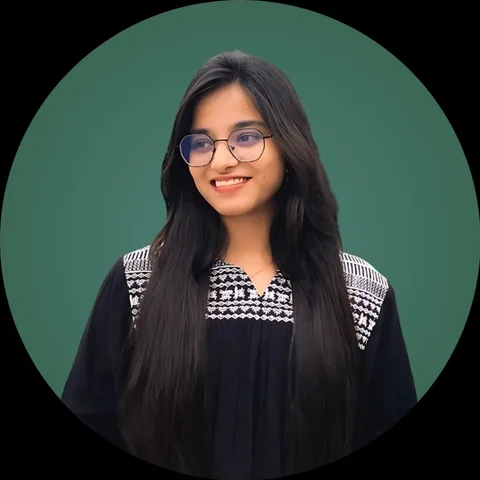
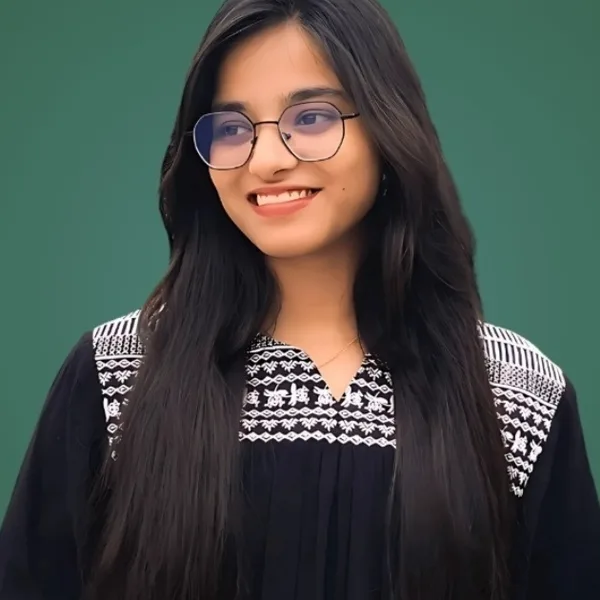
Homepage: team as gliding square-card carousel after the reels
Big card left, next card peeking; auto-advances every 3 s, swipe,
keys and dots. Photos re-cropped square to fill the cards.

Claude-Session: https://claude.ai/code/session_01AbE5ecc2Cn8vJ6Anzxiuye

diff --git a/forgehype-qa/index.html b/forgehype-qa/index.html
@@ -21,7 +21,7 @@
 <link rel="preconnect" href="https://fonts.googleapis.com">
 <link rel="preconnect" href="https://fonts.gstatic.com" crossorigin>
 <link href="https://fonts.googleapis.com/css2?family=Bricolage+Grotesque:opsz,wght@12..96,300;12..96,500;12..96,600;12..96,700&family=Manrope:wght@400;500;600&family=Geist+Mono:wght@400;500&display=swap" rel="stylesheet">
-<link rel="stylesheet" href="assets/css/main.css?v=20261025j">
+<link rel="stylesheet" href="assets/css/main.css?v=20261025k">
 <script>document.documentElement.classList.add("js")</script>
 <script type="application/ld+json">
 {"@context": "https://schema.org", "@type": "ProfessionalService", "@id": "https://forgehype.qa/#business", "name": "ForgeHype", "legalName": "ForgeHype website and Management consultancy W.L.L.", "url": "https://forgehype.qa/", "logo": "https://forgehype.qa/assets/img/brand/logo.png", "image": "https://forgehype.qa/assets/img/og.jpg", "description": "Website design and digital growth consultancy in Doha, Qatar: websites and e-commerce, website content and brand media, SEO and AI visibility audits, automation and AI consultancy, brand identity and monthly growth advisory.", "telephone": "+97455879325", "email": "info@forgehype.qa", "foundingDate": "2026-10-12", "address": {"@type": "PostalAddress", "streetAddress": "Building 66, Street 950, Zone 24", "addressLocality": "Doha", "addressCountry": "QA"}, "areaServed": {"@type": "Country", "name": "Qatar"}, "sameAs": ["https://www.instagram.com/forgehypeqatar/"], "knowsLanguage": ["en", "ar"]}
@@ -240,21 +240,6 @@
     </p>
     <p class="statement" id="statement">A website design and digital growth consultancy in Doha, helping brands get seen, trusted and remembered.</p>
     <div class="btn-row reveal"><a class="btn btn-primary" href="#talk">Let’s Talk</a></div>
-    <div class="team reveal" id="team">
-      <h2 class="t-display team-title">The team</h2>
-      <p class="lowkey">Our team brings 14 years of GCC media production experience.</p>
-      <ul class="team-grid" aria-label="ForgeHype team">
-        <li class="member"><span class="avatar"><img src="assets/img/team/farzana-husain.webp" alt="Farzana Husain, Managing Director, ForgeHype" width="128" height="128" loading="lazy" decoding="async"></span><span class="m-name">Farzana Husain</span><span class="m-role">Managing Director</span></li>
-        <li class="member"><span class="avatar"><img src="assets/img/team/adnan-mohammad.webp" alt="Adnan Mohammad, Creative Director, ForgeHype" width="128" height="128" loading="lazy" decoding="async"></span><span class="m-name">Adnan Mohammad</span><span class="m-role">Creative Director</span></li>
-        <li class="member"><span class="avatar"><img src="assets/img/team/nishat-tasnim.webp" alt="Nishat Tasnim, Operations Lead, ForgeHype" width="128" height="128" loading="lazy" decoding="async"></span><span class="m-name">Nishat Tasnim</span><span class="m-role">Operations Lead</span></li>
-        <li class="member"><span class="avatar"><img src="assets/img/team/tahrima-tony.webp" alt="Tahrima Tony, Lead Motion Designer, ForgeHype" width="128" height="128" loading="lazy" decoding="async"></span><span class="m-name">Tahrima Tony</span><span class="m-role">Lead Motion Designer</span></li>
-        <li class="member"><span class="avatar"><img src="assets/img/team/sharia-tasnim.webp" alt="Sharia Tasnim, Lead Editor, ForgeHype" width="128" height="128" loading="lazy" decoding="async"></span><span class="m-name">Sharia Tasnim</span><span class="m-role">Lead Editor</span></li>
-        <li class="member"><span class="avatar"><img src="assets/img/team/anjum-akter.webp" alt="Anjum Akter, Lead, Growth and Engagement, ForgeHype" width="128" height="128" loading="lazy" decoding="async"></span><span class="m-name">Anjum Akter</span><span class="m-role">Lead, Growth &amp; Engagement</span></li>
-        <li class="member"><span class="avatar"><img src="assets/img/team/rakib-ahmad.webp" alt="Rakib Ahmad, Lead Video Editor, ForgeHype" width="128" height="128" loading="lazy" decoding="async"></span><span class="m-name">Rakib Ahmad</span><span class="m-role">Lead Video Editor</span></li>
-        <li class="member"><span class="avatar" aria-hidden="true">N</span><span class="m-name">Naim</span><span class="m-role">Lead, SEO &amp; AI Search</span></li>
-        <li class="member"><span class="avatar"><img src="assets/img/team/arifur-rahman.webp" alt="Arifur Rahman, AI Agent and Automation Consultant, ForgeHype" width="128" height="128" loading="lazy" decoding="async"></span><span class="m-name">Arifur Rahman</span><span class="m-role">AI Agent &amp; Automation Consultant</span></li>
-      </ul>
-    </div>
   </div>
 </section>
 
@@ -268,6 +253,29 @@
       <div class="reel" data-pos="-1" role="group" aria-roledescription="slide" aria-label="4 of 4: Talking-head video edited with motion graphics"><video muted loop playsinline preload="none" poster="assets/video/reels/talking-head.jpg" src="assets/video/reels/talking-head.mp4"></video><button class="sound-toggle" type="button" aria-pressed="false" aria-label="Turn sound on" tabindex="-1"><svg viewBox="0 0 24 24" fill="none" stroke="currentColor" stroke-width="1.8" stroke-linecap="round" stroke-linejoin="round" aria-hidden="true"><path d="M4 9.5h3.5L12 5.5v13l-4.5-4H4z" fill="currentColor" stroke="none"/><path class="waves" d="M15.5 9a4 4 0 0 1 0 6M18 6.5a7.5 7.5 0 0 1 0 11"/><path class="slash" d="M3 3l18 18"/></svg></button></div>
     </div>
     <div class="reel-nav"><button type="button" class="reel-arrow" data-dir="-1" aria-label="Previous reel">←</button><div class="reel-dots"><button type="button" class="reel-dot on" aria-label="Show reel 1"></button><button type="button" class="reel-dot" aria-label="Show reel 2"></button><button type="button" class="reel-dot" aria-label="Show reel 3"></button><button type="button" class="reel-dot" aria-label="Show reel 4"></button></div><button type="button" class="reel-arrow" data-dir="1" aria-label="Next reel">→</button></div>
+  </div>
+</section>
+
+<!-- ============ 3c. TEAM (light) ============ -->
+<section class="section light team-sec" id="team" data-theme="light" aria-labelledby="team-title">
+  <div class="wrap">
+    <div class="team-head reveal">
+      <span class="mono-label sec-label">[ Team ]</span>
+      <h2 class="t-display team-title" id="team-title">The team</h2>
+      <p class="lowkey">Our team brings 14 years of GCC media production experience.</p>
+    </div>
+    <ul class="team-track" id="teamTrack" tabindex="0" aria-roledescription="carousel" aria-label="ForgeHype team. Swipe or use the arrow keys.">
+        <li class="tcard" data-pos="0"><figure><img src="assets/img/team/farzana-husain.webp?v=2" alt="Farzana Husain, Managing Director, ForgeHype" width="480" height="480" loading="lazy" decoding="async"><figcaption><span class="m-name">Farzana Husain</span><span class="m-role">Managing Director</span></figcaption></figure></li>
+        <li class="tcard" data-pos="1"><figure><img src="assets/img/team/adnan-mohammad.webp?v=2" alt="Adnan Mohammad, Creative Director, ForgeHype" width="480" height="480" loading="lazy" decoding="async"><figcaption><span class="m-name">Adnan Mohammad</span><span class="m-role">Creative Director</span></figcaption></figure></li>
+        <li class="tcard" data-pos="2"><figure><img src="assets/img/team/nishat-tasnim.webp?v=2" alt="Nishat Tasnim, Operations Lead, ForgeHype" width="480" height="480" loading="lazy" decoding="async"><figcaption><span class="m-name">Nishat Tasnim</span><span class="m-role">Operations Lead</span></figcaption></figure></li>
+        <li class="tcard" data-pos="2"><figure><img src="assets/img/team/tahrima-tony.webp?v=2" alt="Tahrima Tony, Lead Motion Designer, ForgeHype" width="480" height="480" loading="lazy" decoding="async"><figcaption><span class="m-name">Tahrima Tony</span><span class="m-role">Lead Motion Designer</span></figcaption></figure></li>
+        <li class="tcard" data-pos="2"><figure><img src="assets/img/team/sharia-tasnim.webp?v=2" alt="Sharia Tasnim, Lead Editor, ForgeHype" width="480" height="480" loading="lazy" decoding="async"><figcaption><span class="m-name">Sharia Tasnim</span><span class="m-role">Lead Editor</span></figcaption></figure></li>
+        <li class="tcard" data-pos="2"><figure><img src="assets/img/team/anjum-akter.webp?v=2" alt="Anjum Akter, Lead, Growth and Engagement, ForgeHype" width="480" height="480" loading="lazy" decoding="async"><figcaption><span class="m-name">Anjum Akter</span><span class="m-role">Lead, Growth &amp; Engagement</span></figcaption></figure></li>
+        <li class="tcard" data-pos="2"><figure><img src="assets/img/team/rakib-ahmad.webp?v=2" alt="Rakib Ahmad, Lead Video Editor, ForgeHype" width="480" height="480" loading="lazy" decoding="async"><figcaption><span class="m-name">Rakib Ahmad</span><span class="m-role">Lead Video Editor</span></figcaption></figure></li>
+        <li class="tcard" data-pos="2"><figure><span class="tc-initial" aria-hidden="true">N</span><figcaption><span class="m-name">Naim</span><span class="m-role">Lead, SEO &amp; AI Search</span></figcaption></figure></li>
+        <li class="tcard" data-pos="-1"><figure><img src="assets/img/team/arifur-rahman.webp?v=2" alt="Arifur Rahman, AI Agent and Automation Consultant, ForgeHype" width="480" height="480" loading="lazy" decoding="async"><figcaption><span class="m-name">Arifur Rahman</span><span class="m-role">AI Agent &amp; Automation Consultant</span></figcaption></figure></li>
+    </ul>
+    <div class="team-dots"><button type="button" class="team-dot on" aria-label="Show Farzana Husain"></button><button type="button" class="team-dot" aria-label="Show Adnan Mohammad"></button><button type="button" class="team-dot" aria-label="Show Nishat Tasnim"></button><button type="button" class="team-dot" aria-label="Show Tahrima Tony"></button><button type="button" class="team-dot" aria-label="Show Sharia Tasnim"></button><button type="button" class="team-dot" aria-label="Show Anjum Akter"></button><button type="button" class="team-dot" aria-label="Show Rakib Ahmad"></button><button type="button" class="team-dot" aria-label="Show Naim"></button><button type="button" class="team-dot" aria-label="Show Arifur Rahman"></button></div>
   </div>
 </section>
 
@@ -551,6 +559,6 @@
 
 <a class="wa-float" id="waFloat" href="https://wa.me/97455879325" target="_blank" rel="noopener" aria-label="WhatsApp us"><svg viewBox="0 0 24 24" fill="none" stroke="currentColor" stroke-width="1.8" stroke-linecap="round" stroke-linejoin="round" aria-hidden="true"><path d="M21 12a9 9 0 0 1-13.3 7.9L3 21l1.1-4.6A9 9 0 1 1 21 12z"/></svg><span class="lbl">WhatsApp us</span></a>
 
-<script src="assets/js/main.js?v=20261025c" defer></script>
+<script src="assets/js/main.js?v=20261025d" defer></script>
 </body>
 </html>

diff --git a/forgehype-qa/faq.html b/forgehype-qa/faq.html
@@ -21,7 +21,7 @@
 <link rel="preconnect" href="https://fonts.googleapis.com">
 <link rel="preconnect" href="https://fonts.gstatic.com" crossorigin>
 <link href="https://fonts.googleapis.com/css2?family=Bricolage+Grotesque:opsz,wght@12..96,300;12..96,500;12..96,600;12..96,700&family=Manrope:wght@400;500;600&family=Geist+Mono:wght@400;500&display=swap" rel="stylesheet">
-<link rel="stylesheet" href="assets/css/main.css?v=20261025j">
+<link rel="stylesheet" href="assets/css/main.css?v=20261025k">
 <script>document.documentElement.classList.add("js")</script>
 <script type="application/ld+json">
 {"@context": "https://schema.org", "@graph": [{"@type": "FAQPage", "mainEntity": [{"@type": "Question", "name": "What does ForgeHype do?", "acceptedAnswer": {"@type": "Answer", "text": "Website design and digital growth consultancy: websites and e-commerce, website content and brand media, SEO and AI visibility audits, automation and AI consultancy, brand identity and monthly advisory. We advise and report; your team runs the day-to-day work."}}, {"@type": "Question", "name": "How much does it cost?", "acceptedAnswer": {"@type": "Answer", "text": "Every scope is built around your business, so we quote after the free consultation. No standard packages."}}, {"@type": "Question", "name": "How fast can you deliver content?", "acceptedAnswer": {"@type": "Answer", "text": "Days from brief to delivery, not weeks. From 10 to 60 videos a month."}}, {"@type": "Question", "name": "What does the free consultation cover?", "acceptedAnswer": {"@type": "Answer", "text": "Your website, search presence, content and brand. You get a clear list of what to fix first."}}, {"@type": "Question", "name": "Do you work outside Qatar?", "acceptedAnswer": {"@type": "Answer", "text": "Yes. We are based in Doha and work with clients outside Qatar on Teams and WhatsApp."}}, {"@type": "Question", "name": "Can you automate bookings and replies?", "acceptedAnswer": {"@type": "Answer", "text": "Yes. We plan AI agents for WhatsApp and your website that answer, book, take orders and follow up, connect them to your site, and train your team to run them."}}, {"@type": "Question", "name": "Do you work in Arabic?", "acceptedAnswer": {"@type": "Answer", "text": "Yes. Bilingual sites, menus and content, built right to left where it matters."}}, {"@type": "Question", "name": "What is monthly digital growth advisory?", "acceptedAnswer": {"@type": "Answer", "text": "Each month we review your numbers, research what is working in your market, report clear next steps and train your team."}}]}, {"@type": "BreadcrumbList", "itemListElement": [{"@type": "ListItem", "position": 1, "name": "Home", "item": "https://forgehype.qa/"}, {"@type": "ListItem", "position": 2, "name": "FAQ", "item": "https://forgehype.qa/faq.html"}]}]}

diff --git a/forgehype-qa/assets/css/main.css b/forgehype-qa/assets/css/main.css
@@ -683,3 +683,29 @@ html.js .stack-text .answer:not(.open){display:-webkit-box;-webkit-line-clamp:1;
   .reel-arrow{display:grid;place-items:center}
 }
 @media (prefers-reduced-motion:reduce){.reel{transition:none}}
+
+/* team: gliding square cards, big card left, next one peeking */
+.team-sec{padding-block:var(--s-6) var(--s-8);overflow-x:clip}
+.team-head{display:grid;gap:var(--s-3);justify-items:start}
+.team-track{--cw:78%;--gap:14px;--s2:.8;position:relative;list-style:none;margin:var(--s-6) 0 0;padding:0;aspect-ratio:100/78;touch-action:pan-y;outline:none;user-select:none;-webkit-user-select:none}
+.team-track:focus-visible{outline:2px solid var(--accent);outline-offset:8px;border-radius:28px}
+.tcard{--x:0%;--s:1;position:absolute;left:0;bottom:0;width:var(--cw);aspect-ratio:1;transform-origin:left bottom;transform:translateX(var(--x)) scale(var(--s));opacity:0;transition:transform .95s cubic-bezier(.22,.61,.36,1),opacity .95s cubic-bezier(.22,.61,.36,1)}
+.tcard figure{margin:0;position:relative;width:100%;height:100%;border-radius:24px;overflow:hidden;background:linear-gradient(150deg,#2a211b,#14110f);box-shadow:0 26px 50px -24px rgba(50,25,8,.45)}
+.tcard img{width:100%;height:100%;object-fit:cover;display:block}
+.tcard .tc-initial{position:absolute;inset:0;display:grid;place-items:center;font-family:var(--font-display);font-weight:600;font-size:clamp(4rem,20vw,8rem);color:var(--accent)}
+.tcard figcaption{position:absolute;inset-inline:0;bottom:0;padding:var(--s-6) var(--s-4) var(--s-4);display:grid;gap:.15rem;background:linear-gradient(to top,rgba(10,8,7,.85),rgba(10,8,7,0));color:#fff}
+.tcard .m-name{font-family:var(--font-display);font-weight:600;font-size:1.25rem;line-height:1.15}
+.tcard .m-role{font-size:var(--fs-sm);color:rgba(255,255,255,.78);line-height:1.3}
+.tcard[data-pos="0"]{opacity:1;z-index:2}
+.tcard[data-pos="1"]{--x:calc(100% + var(--gap));--s:var(--s2);opacity:1;z-index:1}
+.tcard[data-pos="1"] figcaption{opacity:.0}
+.tcard[data-pos="2"]{--x:calc(100% + 100% * var(--s2) + var(--gap) * 2);--s:var(--s2)}
+.tcard[data-pos="-1"]{--x:calc(-100% - var(--gap))}
+.team-dots{display:flex;flex-wrap:wrap;gap:.45rem;margin-block-start:var(--s-5)}
+.team-dot{width:7px;height:7px;border-radius:50%;border:0;padding:0;background:rgba(20,17,15,.2);cursor:pointer;transition:width .4s,background .4s}
+.team-dot.on{width:22px;border-radius:7px;background:var(--accent)}
+@media (min-width:900px){
+  .team-track{--cw:min(40%,440px);aspect-ratio:auto;height:min(40vw,440px)}
+  .tcard[data-pos="1"] figcaption{opacity:1}
+}
+@media (prefers-reduced-motion:reduce){.tcard{transition:none}}

diff --git a/forgehype-qa/services/website-ecommerce.html b/forgehype-qa/services/website-ecommerce.html
@@ -21,7 +21,7 @@
 <link rel="preconnect" href="https://fonts.googleapis.com">
 <link rel="preconnect" href="https://fonts.gstatic.com" crossorigin>
 <link href="https://fonts.googleapis.com/css2?family=Bricolage+Grotesque:opsz,wght@12..96,300;12..96,500;12..96,600;12..96,700&family=Manrope:wght@400;500;600&family=Geist+Mono:wght@400;500&display=swap" rel="stylesheet">
-<link rel="stylesheet" href="../assets/css/main.css?v=20261025j">
+<link rel="stylesheet" href="../assets/css/main.css?v=20261025k">
 <script>document.documentElement.classList.add("js")</script>
 <script type="application/ld+json">
 {"@context": "https://schema.org", "@graph": [{"@type": "Service", "@id": "https://forgehype.qa/services/website-ecommerce.html#service", "name": "Website design and e-commerce", "serviceType": "Website design and e-commerce", "description": "Custom websites and online stores for Qatar businesses, fast on mobile and built to turn visits into enquiries and orders. ForgeHype, Doha.", "url": "https://forgehype.qa/services/website-ecommerce.html", "areaServed": {"@type": "Country", "name": "Qatar"}, "provider": {"@id": "https://forgehype.qa/#business"}}, {"@type": "BreadcrumbList", "itemListElement": [{"@type": "ListItem", "position": 1, "name": "Home", "item": "https://forgehype.qa/"}, {"@type": "ListItem", "position": 2, "name": "Services", "item": "https://forgehype.qa/#services"}, {"@type": "ListItem", "position": 3, "name": "Website design and e-commerce", "item": "https://forgehype.qa/services/website-ecommerce.html"}]}, {"@type": "FAQPage", "mainEntity": [{"@type": "Question", "name": "What does the free consultation cover?", "acceptedAnswer": {"@type": "Answer", "text": "Your website, search presence, content and brand. You get a clear list of what to fix first."}}, {"@type": "Question", "name": "How much does it cost?", "acceptedAnswer": {"@type": "Answer", "text": "Every scope is built around your business, so we quote after the free consultation. No standard packages."}}, {"@type": "Question", "name": "What is monthly support?", "acceptedAnswer": {"@type": "Answer", "text": "Monthly digital growth advisory: we review your numbers, research what is working, report clear next steps and train your team."}}, {"@type": "Question", "name": "What does ForgeHype do?", "acceptedAnswer": {"@type": "Answer", "text": "Website design and digital growth consultancy: websites and e-commerce, website content and brand media, SEO and AI visibility audits, automation and AI consultancy, brand identity and monthly advisory. We advise and report; your team runs the day-to-day work."}}]}]}

diff --git a/forgehype-qa/services/brand-media-kit.html b/forgehype-qa/services/brand-media-kit.html
@@ -21,7 +21,7 @@
 <link rel="preconnect" href="https://fonts.googleapis.com">
 <link rel="preconnect" href="https://fonts.gstatic.com" crossorigin>
 <link href="https://fonts.googleapis.com/css2?family=Bricolage+Grotesque:opsz,wght@12..96,300;12..96,500;12..96,600;12..96,700&family=Manrope:wght@400;500;600&family=Geist+Mono:wght@400;500&display=swap" rel="stylesheet">
-<link rel="stylesheet" href="../assets/css/main.css?v=20261025j">
+<link rel="stylesheet" href="../assets/css/main.css?v=20261025k">
 <script>document.documentElement.classList.add("js")</script>
 <script type="application/ld+json">
 {"@context": "https://schema.org", "@graph": [{"@type": "Service", "@id": "https://forgehype.qa/services/brand-media-kit.html#service", "name": "Brand identity and media kits", "serviceType": "Brand identity and media kits", "description": "One consistent identity across everything customers see and hold: logo, colours, menus, catalogs, packaging and a brand guide. ForgeHype, Doha.", "url": "https://forgehype.qa/services/brand-media-kit.html", "areaServed": {"@type": "Country", "name": "Qatar"}, "provider": {"@id": "https://forgehype.qa/#business"}}, {"@type": "BreadcrumbList", "itemListElement": [{"@type": "ListItem", "position": 1, "name": "Home", "item": "https://forgehype.qa/"}, {"@type": "ListItem", "position": 2, "name": "Services", "item": "https://forgehype.qa/#services"}, {"@type": "ListItem", "position": 3, "name": "Brand identity and media kits", "item": "https://forgehype.qa/services/brand-media-kit.html"}]}, {"@type": "FAQPage", "mainEntity": [{"@type": "Question", "name": "What does the free consultation cover?", "acceptedAnswer": {"@type": "Answer", "text": "Your website, search presence, content and brand. You get a clear list of what to fix first."}}, {"@type": "Question", "name": "How much does it cost?", "acceptedAnswer": {"@type": "Answer", "text": "Every scope is built around your business, so we quote after the free consultation. No standard packages."}}, {"@type": "Question", "name": "What is monthly support?", "acceptedAnswer": {"@type": "Answer", "text": "Monthly digital growth advisory: we review your numbers, research what is working, report clear next steps and train your team."}}, {"@type": "Question", "name": "What does ForgeHype do?", "acceptedAnswer": {"@type": "Answer", "text": "Website design and digital growth consultancy: websites and e-commerce, website content and brand media, SEO and AI visibility audits, automation and AI consultancy, brand identity and monthly advisory. We advise and report; your team runs the day-to-day work."}}]}]}

diff --git a/forgehype-qa/services/search-ai-visibility.html b/forgehype-qa/services/search-ai-visibility.html
@@ -21,7 +21,7 @@
 <link rel="preconnect" href="https://fonts.googleapis.com">
 <link rel="preconnect" href="https://fonts.gstatic.com" crossorigin>
 <link href="https://fonts.googleapis.com/css2?family=Bricolage+Grotesque:opsz,wght@12..96,300;12..96,500;12..96,600;12..96,700&family=Manrope:wght@400;500;600&family=Geist+Mono:wght@400;500&display=swap" rel="stylesheet">
-<link rel="stylesheet" href="../assets/css/main.css?v=20261025j">
+<link rel="stylesheet" href="../assets/css/main.css?v=20261025k">
 <script>document.documentElement.classList.add("js")</script>
 <script type="application/ld+json">
 {"@context": "https://schema.org", "@graph": [{"@type": "Service", "@id": "https://forgehype.qa/services/search-ai-visibility.html#service", "name": "SEO and AI visibility audits", "serviceType": "SEO and AI visibility audits", "description": "Audits of your website, Google profile and listings, with a clear report your team can act on to get found on Google and AI.", "url": "https://forgehype.qa/services/search-ai-visibility.html", "areaServed": {"@type": "Country", "name": "Qatar"}, "provider": {"@id": "https://forgehype.qa/#business"}}, {"@type": "BreadcrumbList", "itemListElement": [{"@type": "ListItem", "position": 1, "name": "Home", "item": "https://forgehype.qa/"}, {"@type": "ListItem", "position": 2, "name": "Services", "item": "https://forgehype.qa/#services"}, {"@type": "ListItem", "position": 3, "name": "SEO and AI visibility audits", "item": "https://forgehype.qa/services/search-ai-visibility.html"}]}, {"@type": "FAQPage", "mainEntity": [{"@type": "Question", "name": "What does the free consultation cover?", "acceptedAnswer": {"@type": "Answer", "text": "Your website, search presence, content and brand. You get a clear list of what to fix first."}}, {"@type": "Question", "name": "How much does it cost?", "acceptedAnswer": {"@type": "Answer", "text": "Every scope is built around your business, so we quote after the free consultation. No standard packages."}}, {"@type": "Question", "name": "What is monthly support?", "acceptedAnswer": {"@type": "Answer", "text": "Monthly digital growth advisory: we review your numbers, research what is working, report clear next steps and train your team."}}, {"@type": "Question", "name": "What does ForgeHype do?", "acceptedAnswer": {"@type": "Answer", "text": "Website design and digital growth consultancy: websites and e-commerce, website content and brand media, SEO and AI visibility audits, automation and AI consultancy, brand identity and monthly advisory. We advise and report; your team runs the day-to-day work."}}]}]}

diff --git a/forgehype-qa/services/monthly-support.html b/forgehype-qa/services/monthly-support.html
@@ -21,7 +21,7 @@
 <link rel="preconnect" href="https://fonts.googleapis.com">
 <link rel="preconnect" href="https://fonts.gstatic.com" crossorigin>
 <link href="https://fonts.googleapis.com/css2?family=Bricolage+Grotesque:opsz,wght@12..96,300;12..96,500;12..96,600;12..96,700&family=Manrope:wght@400;500;600&family=Geist+Mono:wght@400;500&display=swap" rel="stylesheet">
-<link rel="stylesheet" href="../assets/css/main.css?v=20261025j">
+<link rel="stylesheet" href="../assets/css/main.css?v=20261025k">
 <script>document.documentElement.classList.add("js")</script>
 <script type="application/ld+json">
 {"@context": "https://schema.org", "@graph": [{"@type": "Service", "@id": "https://forgehype.qa/services/monthly-support.html#service", "name": "Monthly digital growth advisory", "serviceType": "Monthly digital growth advisory", "description": "Each month we review your numbers, research what works in your market and report clear next steps, with training for your team.", "url": "https://forgehype.qa/services/monthly-support.html", "areaServed": {"@type": "Country", "name": "Qatar"}, "provider": {"@id": "https://forgehype.qa/#business"}}, {"@type": "BreadcrumbList", "itemListElement": [{"@type": "ListItem", "position": 1, "name": "Home", "item": "https://forgehype.qa/"}, {"@type": "ListItem", "position": 2, "name": "Services", "item": "https://forgehype.qa/#services"}, {"@type": "ListItem", "position": 3, "name": "Monthly digital growth advisory", "item": "https://forgehype.qa/services/monthly-support.html"}]}, {"@type": "FAQPage", "mainEntity": [{"@type": "Question", "name": "What does the free consultation cover?", "acceptedAnswer": {"@type": "Answer", "text": "Your website, search presence, content and brand. You get a clear list of what to fix first."}}, {"@type": "Question", "name": "How much does it cost?", "acceptedAnswer": {"@type": "Answer", "text": "Every scope is built around your business, so we quote after the free consultation. No standard packages."}}, {"@type": "Question", "name": "What is monthly support?", "acceptedAnswer": {"@type": "Answer", "text": "Monthly digital growth advisory: we review your numbers, research what is working, report clear next steps and train your team."}}, {"@type": "Question", "name": "What does ForgeHype do?", "acceptedAnswer": {"@type": "Answer", "text": "Website design and digital growth consultancy: websites and e-commerce, website content and brand media, SEO and AI visibility audits, automation and AI consultancy, brand identity and monthly advisory. We advise and report; your team runs the day-to-day work."}}]}]}

diff --git a/forgehype-qa/services/ai-automation-apps.html b/forgehype-qa/services/ai-automation-apps.html
@@ -21,7 +21,7 @@
 <link rel="preconnect" href="https://fonts.googleapis.com">
 <link rel="preconnect" href="https://fonts.gstatic.com" crossorigin>
 <link href="https://fonts.googleapis.com/css2?family=Bricolage+Grotesque:opsz,wght@12..96,300;12..96,500;12..96,600;12..96,700&family=Manrope:wght@400;500;600&family=Geist+Mono:wght@400;500&display=swap" rel="stylesheet">
-<link rel="stylesheet" href="../assets/css/main.css?v=20261025j">
+<link rel="stylesheet" href="../assets/css/main.css?v=20261025k">
 <script>document.documentElement.classList.add("js")</script>
 <script type="application/ld+json">
 {"@context": "https://schema.org", "@graph": [{"@type": "Service", "@id": "https://forgehype.qa/services/ai-automation-apps.html#service", "name": "Automation and AI consultancy", "serviceType": "Automation and AI consultancy", "description": "We map your routines, recommend the right tools and plan automations and AI agents your team can run. ForgeHype, Doha.", "url": "https://forgehype.qa/services/ai-automation-apps.html", "areaServed": {"@type": "Country", "name": "Qatar"}, "provider": {"@id": "https://forgehype.qa/#business"}}, {"@type": "BreadcrumbList", "itemListElement": [{"@type": "ListItem", "position": 1, "name": "Home", "item": "https://forgehype.qa/"}, {"@type": "ListItem", "position": 2, "name": "Services", "item": "https://forgehype.qa/#services"}, {"@type": "ListItem", "position": 3, "name": "Automation and AI consultancy", "item": "https://forgehype.qa/services/ai-automation-apps.html"}]}, {"@type": "FAQPage", "mainEntity": [{"@type": "Question", "name": "What does the free consultation cover?", "acceptedAnswer": {"@type": "Answer", "text": "Your website, search presence, content and brand. You get a clear list of what to fix first."}}, {"@type": "Question", "name": "How much does it cost?", "acceptedAnswer": {"@type": "Answer", "text": "Every scope is built around your business, so we quote after the free consultation. No standard packages."}}, {"@type": "Question", "name": "What is monthly support?", "acceptedAnswer": {"@type": "Answer", "text": "Monthly digital growth advisory: we review your numbers, research what is working, report clear next steps and train your team."}}, {"@type": "Question", "name": "What does ForgeHype do?", "acceptedAnswer": {"@type": "Answer", "text": "Website design and digital growth consultancy: websites and e-commerce, website content and brand media, SEO and AI visibility audits, automation and AI consultancy, brand identity and monthly advisory. We advise and report; your team runs the day-to-day work."}}]}]}

diff --git a/forgehype-qa/services/media-production.html b/forgehype-qa/services/media-production.html
@@ -21,7 +21,7 @@
 <link rel="preconnect" href="https://fonts.googleapis.com">
 <link rel="preconnect" href="https://fonts.gstatic.com" crossorigin>
 <link href="https://fonts.googleapis.com/css2?family=Bricolage+Grotesque:opsz,wght@12..96,300;12..96,500;12..96,600;12..96,700&family=Manrope:wght@400;500;600&family=Geist+Mono:wght@400;500&display=swap" rel="stylesheet">
-<link rel="stylesheet" href="../assets/css/main.css?v=20261025j">
+<link rel="stylesheet" href="../assets/css/main.css?v=20261025k">
 <script>document.documentElement.classList.add("js")</script>
 <script type="application/ld+json">
 {"@context": "https://schema.org", "@graph": [{"@type": "Service", "@id": "https://forgehype.qa/services/media-production.html#service", "name": "Website content and brand media", "serviceType": "Website content and brand media", "description": "Reels, UGC, product demos and brand films made for your website and brand, at the volume you need. ForgeHype, Doha.", "url": "https://forgehype.qa/services/media-production.html", "areaServed": {"@type": "Country", "name": "Qatar"}, "provider": {"@id": "https://forgehype.qa/#business"}}, {"@type": "BreadcrumbList", "itemListElement": [{"@type": "ListItem", "position": 1, "name": "Home", "item": "https://forgehype.qa/"}, {"@type": "ListItem", "position": 2, "name": "Services", "item": "https://forgehype.qa/#services"}, {"@type": "ListItem", "position": 3, "name": "Website content and brand media", "item": "https://forgehype.qa/services/media-production.html"}]}, {"@type": "FAQPage", "mainEntity": [{"@type": "Question", "name": "What does the free consultation cover?", "acceptedAnswer": {"@type": "Answer", "text": "Your website, search presence, content and brand. You get a clear list of what to fix first."}}, {"@type": "Question", "name": "How much does it cost?", "acceptedAnswer": {"@type": "Answer", "text": "Every scope is built around your business, so we quote after the free consultation. No standard packages."}}, {"@type": "Question", "name": "What is monthly support?", "acceptedAnswer": {"@type": "Answer", "text": "Monthly digital growth advisory: we review your numbers, research what is working, report clear next steps and train your team."}}, {"@type": "Question", "name": "What does ForgeHype do?", "acceptedAnswer": {"@type": "Answer", "text": "Website design and digital growth consultancy: websites and e-commerce, website content and brand media, SEO and AI visibility audits, automation and AI consultancy, brand identity and monthly advisory. We advise and report; your team runs the day-to-day work."}}]}]}

diff --git a/forgehype-qa/assets/js/main.js b/forgehype-qa/assets/js/main.js
@@ -742,3 +742,49 @@
   });
   layout();
 })();
+
+/* team: glides one card every 3 s, swipe to move, pauses while touched or hovered */
+(() => {
+  const track = document.getElementById('teamTrack');
+  if (!track) return;
+  const cards = [...track.querySelectorAll('.tcard')], n = cards.length;
+  const dots = [...document.querySelectorAll('#team .team-dot')];
+  const RM = matchMedia('(prefers-reduced-motion: reduce)');
+  let cur = 0, inView = false, hold = false, resumeAt = 0;
+  const layout = () => {
+    cards.forEach((el, i) => {
+      let d = (i - cur + n) % n; if (d > n - 2) d -= n;
+      el.dataset.pos = d < -1 ? -1 : d > 2 ? 2 : d;
+      el.setAttribute('aria-hidden', String(d !== 0));
+    });
+    dots.forEach((d, i) => d.classList.toggle('on', i === cur));
+  };
+  const go = k => { cur = (cur + k + n) % n; layout(); };
+  const pause = () => { resumeAt = Date.now() + 6000; };
+  setInterval(() => {
+    if (RM.matches || !inView || hold || document.hidden || Date.now() < resumeAt) return;
+    go(1);
+  }, 3000);
+  track.addEventListener('mouseenter', () => { hold = true; });
+  track.addEventListener('mouseleave', () => { hold = false; });
+  track.addEventListener('focusin', () => { hold = true; });
+  track.addEventListener('focusout', () => { hold = false; });
+  track.addEventListener('keydown', e => {
+    if (e.key === 'ArrowRight') { e.preventDefault(); go(1); }
+    if (e.key === 'ArrowLeft') { e.preventDefault(); go(-1); }
+  });
+  dots.forEach((d, i) => d.addEventListener('click', () => { cur = i; layout(); pause(); }));
+  cards.forEach((el, i) => el.addEventListener('click', () => { if (el.dataset.pos === '1') { go(1); pause(); } }));
+  let sx = 0, sy = 0, down = false;
+  track.addEventListener('pointerdown', e => { down = true; sx = e.clientX; sy = e.clientY; pause(); });
+  track.addEventListener('pointerup', e => {
+    if (!down) return; down = false;
+    const dx = e.clientX - sx, dy = e.clientY - sy;
+    if (Math.abs(dx) > 40 && Math.abs(dx) > Math.abs(dy)) go(dx < 0 ? 1 : -1);
+    pause();
+  });
+  track.addEventListener('pointercancel', () => { down = false; });
+  new IntersectionObserver(([en]) => { inView = en.isIntersecting; }, { threshold: .4 }).observe(track);
+  layout();
+})();
+

diff --git a/forgehype-qa/about-forgehype.html b/forgehype-qa/about-forgehype.html
@@ -21,7 +21,7 @@
 <link rel="preconnect" href="https://fonts.googleapis.com">
 <link rel="preconnect" href="https://fonts.gstatic.com" crossorigin>
 <link href="https://fonts.googleapis.com/css2?family=Bricolage+Grotesque:opsz,wght@12..96,300;12..96,500;12..96,600;12..96,700&family=Manrope:wght@400;500;600&family=Geist+Mono:wght@400;500&display=swap" rel="stylesheet">
-<link rel="stylesheet" href="assets/css/main.css?v=20261025j">
+<link rel="stylesheet" href="assets/css/main.css?v=20261025k">
 <script>document.documentElement.classList.add("js")</script>
 <script type="application/ld+json">
 {"@context": "https://schema.org", "@graph": [{"@type": "AboutPage", "url": "https://forgehype.qa/about-forgehype.html", "name": "About ForgeHype: key facts", "about": {"@id": "https://forgehype.qa/#business"}}, {"@type": "BreadcrumbList", "itemListElement": [{"@type": "ListItem", "position": 1, "name": "Home", "item": "https://forgehype.qa/"}, {"@type": "ListItem", "position": 2, "name": "Key facts", "item": "https://forgehype.qa/about-forgehype.html"}]}]}
